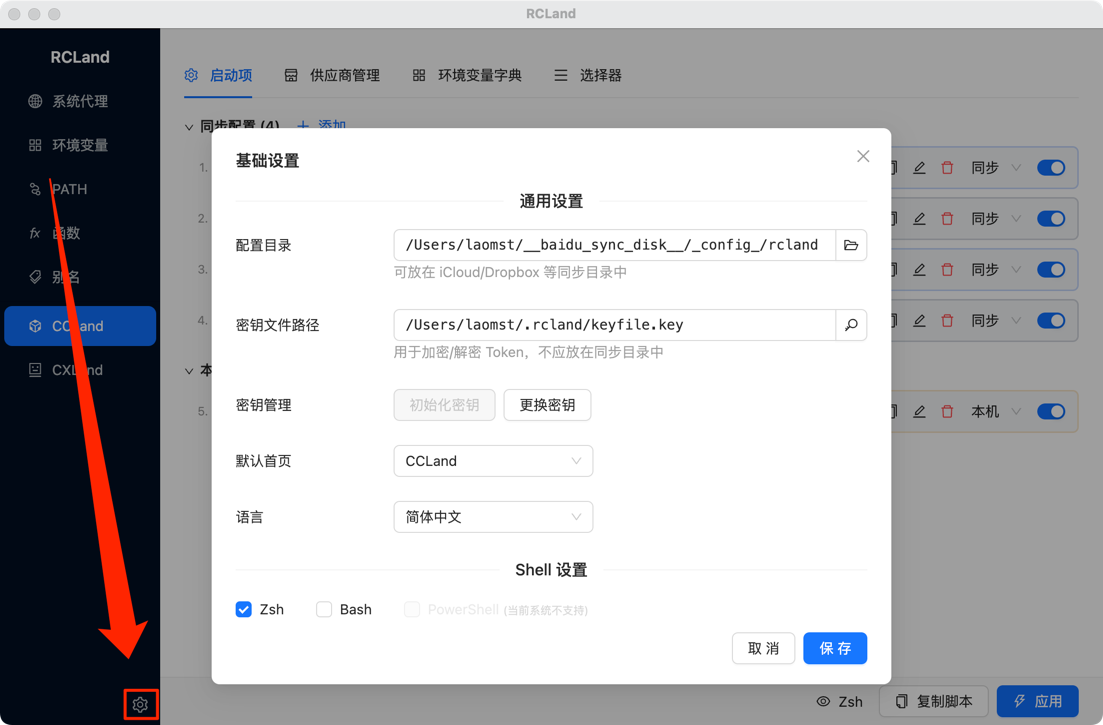
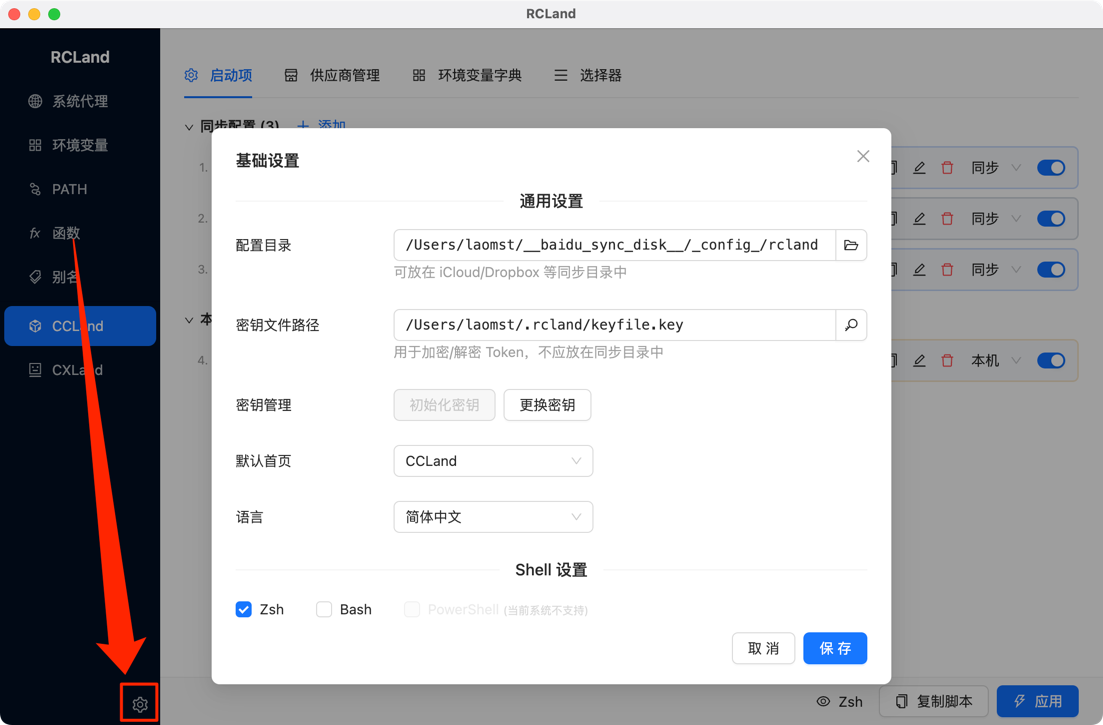
docs: move How It Works section before Installation, clarify multi-shell support and customizable selector names

diff --git a/README.md b/README.md
@@ -15,6 +15,28 @@ A desktop application for managing [Claude Code](https://claude.ai/code) CLI and
 - **System Proxy** — Read OS proxy settings, generate toggle functions (`proxy-on` / `proxy-off` / `proxy-status`)
 - **Cloud Sync Friendly** — Local-only flag on any item; syncable JSON configs can be shared across machines
 
+## How It Works
+
+RCLand supports Zsh, Bash, and PowerShell with automatic OS detection. Each shell gets its own generated script:
+
+| Shell | Output file | Profile injection |
+|-------|-------------|-------------------|
+| Zsh | `~/.rcland/zshrc` | `source` in `~/.zshrc` |
+| Bash | `~/.rcland/bashrc` | `source` in `~/.bashrc` |
+| PowerShell | `~/.rcland/profile.ps1` | `. ` in `$PROFILE` |
+
+```bash
+# >>> RCLand >>>                 # Zsh / Bash
+source ~/.rcland/zshrc
+# <<< RCLand <<<
+
+# >>> RCLand >>>                 # PowerShell
+. "$HOME/.rcland/profile.ps1"
+# <<< RCLand <<<
+```
+
+Use the bottom action bar to preview the generated script before applying.
+
 ## Installation
 
 <!-- TODO: Add download links when releases are published -->
@@ -74,6 +96,8 @@ cc-opus                    # Launch with different model/provider
 
 **Interactive Selector:**
 
+All selector function names are customizable in the Selector tab. Defaults:
+
 ```bash
 cc                         # Show menu to pick from synced launch items
 ccd                        # Same as: cc --dangerously-skip-permissions
@@ -86,7 +110,7 @@ ccld                       # Same as: ccl --dangerously-skip-permissions
 - **Providers** — Define API services (name, endpoints, encrypted keys, default template, kanban URL)
 - **Launch Items** — Combine provider + endpoint + key + env vars into a shell function. Supports **Passthrough mode** (runs `claude` directly without provider credentials)
 - **Env Dictionary** — 13 built-in Claude Code env vars (`ANTHROPIC_MODEL`, `MAX_THINKING_TOKENS`, `CLAUDE_CODE_DISABLE_THINKING`, `API_TIMEOUT_MS`, `ANTHROPIC_BETAS`, etc.) with descriptions and `defaultInTemplate` toggle
-- **Selector** — Configure `cc` / `ccl` interactive menu functions
+- **Selector** — Configure interactive menu function names and prompt title
 
 ## CX Launch
 
@@ -132,18 +156,6 @@ Supports two `wireApi` modes: `responses` (OpenAI official) / `chat` (third-part
 **Shell Aliases** — Simple `alias name='command'` with per-shell targeting and descriptions.
 
 **Presets** — Built-in packs: common aliases, Git shortcuts, SDK paths. Import via the Import button.
-
-## How It Works
-
-RCLand generates shell scripts to `~/.rcland/` and injects a `source` line into your shell profile:
-
-```bash
-# >>> RCLand >>>
-source ~/.rcland/zshrc
-# <<< RCLand <<<
-```
-
-Use the bottom action bar to preview the generated script before applying.
 
 ## Encryption
 

diff --git a/README.zh-CN.md b/README.zh-CN.md
@@ -15,6 +15,28 @@
 - **系统代理** — 读取 OS 代理设置，生成切换函数（`proxy-on` / `proxy-off` / `proxy-status`）
 - **云同步友好** — 任何项目可标记 local-only；可同步的 JSON 配置可跨机器共享
 
+## 工作原理
+
+RCLand 支持 Zsh、Bash、PowerShell 三种 Shell，自动检测操作系统。每种 Shell 生成独立的脚本文件：
+
+| Shell | 输出文件 | Profile 注入 |
+|-------|----------|-------------|
+| Zsh | `~/.rcland/zshrc` | `source` 写入 `~/.zshrc` |
+| Bash | `~/.rcland/bashrc` | `source` 写入 `~/.bashrc` |
+| PowerShell | `~/.rcland/profile.ps1` | `. ` 写入 `$PROFILE` |
+
+```bash
+# >>> RCLand >>>                 # Zsh / Bash
+source ~/.rcland/zshrc
+# <<< RCLand <<<
+
+# >>> RCLand >>>                 # PowerShell
+. "$HOME/.rcland/profile.ps1"
+# <<< RCLand <<<
+```
+
+使用底部操作栏可以在应用前预览生成的脚本。
+
 ## 安装
 
 <!-- TODO: 发布后添加下载链接 -->
@@ -74,6 +96,8 @@ cc-opus                    # 使用其他模型/Provider 启动
 
 **交互式选择器：**
 
+所有选择器函数名均可在选择器标签页自定义。默认值：
+
 ```bash
 cc                         # 弹出菜单选择已同步的启动项
 ccd                        # 等同于: cc --dangerously-skip-permissions
@@ -86,7 +110,7 @@ ccld                       # 等同于: ccl --dangerously-skip-permissions
 - **Provider** — 定义 API 服务（名称、Endpoint、加密密钥、默认模板、Kanban URL）
 - **启动项** — 组合 Provider + Endpoint + Key + 环境变量生成 Shell 函数。支持 **Passthrough 模式**（直接运行 `claude`，不注入 Provider 凭据）
 - **环境变量字典** — 13 个内置 Claude Code 环境变量（`ANTHROPIC_MODEL`、`MAX_THINKING_TOKENS`、`CLAUDE_CODE_DISABLE_THINKING`、`API_TIMEOUT_MS`、`ANTHROPIC_BETAS` 等），含描述和 `defaultInTemplate` 开关
-- **选择器** — 配置 `cc` / `ccl` 交互式菜单函数
+- **选择器** — 配置交互式菜单的函数名和提示标题
 
 ## CX Launch
 
@@ -132,18 +156,6 @@ cxl                        # 本地专属启动项选择器
 **Shell 别名** — `alias name='command'`，按 Shell 筛选，描述字段。
 
 **预设** — 内置包：常用别名、Git 快捷方式、SDK 路径。通过导入按钮一键导入。
-
-## 工作原理
-
-RCLand 生成 Shell 脚本到 `~/.rcland/`，并在 Shell profile 中注入 source 行：
-
-```bash
-# >>> RCLand >>>
-source ~/.rcland/zshrc
-# <<< RCLand <<<
-```
-
-使用底部操作栏可以在应用前预览生成的脚本。
 
 ## 加密
 